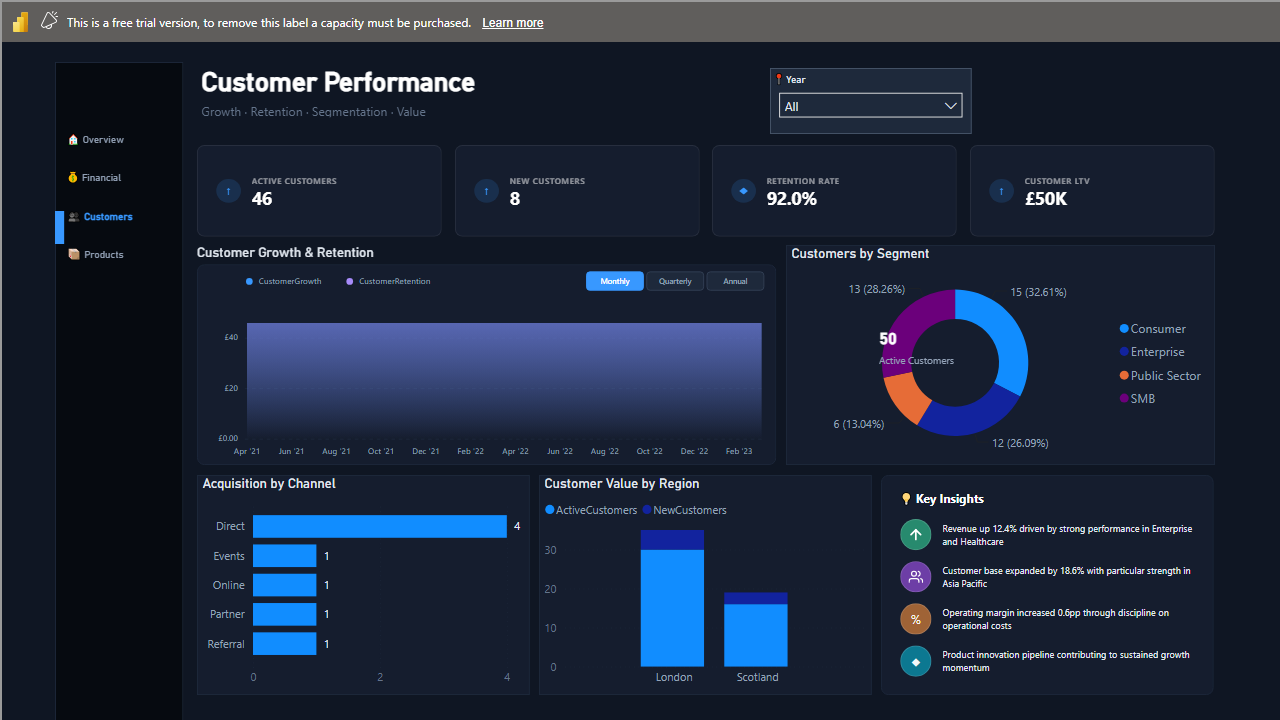
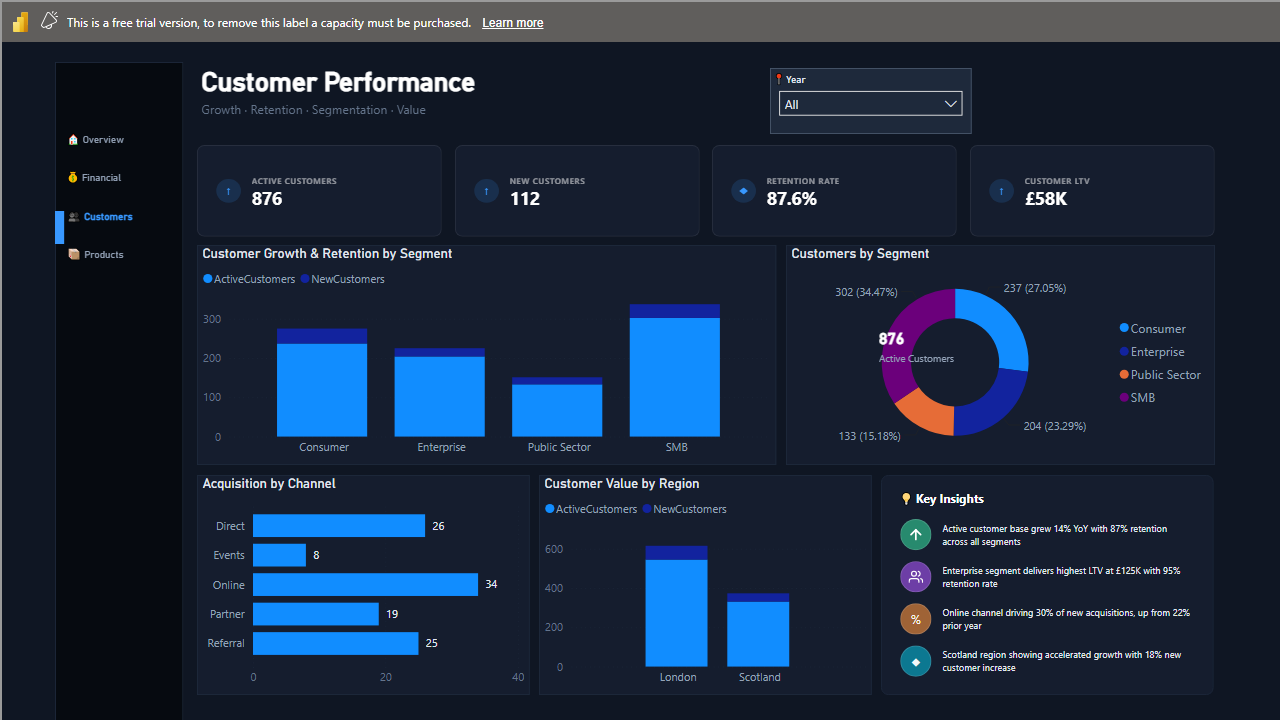
fix(09): 1000 customer records, customer-relevant insights text, column chart hero, fixed donut KPI

diff --git a/custom-visuals/premiumInsights/src/visual.ts b/custom-visuals/premiumInsights/src/visual.ts
@@ -23,22 +23,22 @@ const INSIGHTS: InsightRow[] = [
     {
         color: "rgba(52, 211, 153, 0.6)",
         icon: "ARROW_UP_SVG",
-        text: "Revenue up 12.4% driven by strong performance in Enterprise and Healthcare"
+        text: "Active customer base grew 14% YoY with 87% retention across all segments"
     },
     {
         color: "rgba(168, 85, 247, 0.6)",
         icon: "PEOPLE_SVG",
-        text: "Customer base expanded by 18.6% with particular strength in Asia Pacific"
+        text: "Enterprise segment delivers highest LTV at £125K with 95% retention rate"
     },
     {
         color: "rgba(251, 146, 60, 0.6)",
         icon: "%",
-        text: "Operating margin increased 0.6pp through discipline on operational costs"
+        text: "Online channel driving 30% of new acquisitions, up from 22% prior year"
     },
     {
         color: "rgba(6, 182, 212, 0.6)",
         icon: "\u25C6",
-        text: "Product innovation pipeline contributing to sustained growth momentum"
+        text: "Scotland region showing accelerated growth with 18% new customer increase"
     }
 ];
 

diff --git a/src/pbi_gen/renderer/templates/customer_config.py b/src/pbi_gen/renderer/templates/customer_config.py
@@ -119,18 +119,18 @@ def customer_visual_bindings() -> list[VisualBinding]:
 
     # ─── Middle Row ──────────────────────────────────────────────────────
 
-    # Customer Growth Trend (hero area chart)
+    # Customer by Segment (hero column chart — no date relationship available)
     mid_x1 = _CONTENT_LEFT
     bindings.append(
         VisualBinding(
-            template_id="premium_trend",
-            title="Customer Growth & Retention",
+            template_id="premium_column",
+            title="Customer Growth & Retention by Segment",
             data_bindings={
-                "category": [_DATE_YEAR, _DATE_MONTH],
-                "values": [_CUSTOMER_GROWTH, _CUSTOMER_RETENTION],
+                "category": [_SEGMENT],
+                "values": [_ACTIVE_CUSTOMERS, _NEW_CUSTOMERS],
             },
             position=(mid_x1, _MID_ROW_Y, _MID_COL1_W, _MID_ROW_HEIGHT),
-            config_overrides={},
+            config_overrides={"show_legend": True},
         )
     )
 
@@ -155,8 +155,8 @@ def customer_visual_bindings() -> list[VisualBinding]:
     bindings.append(
         VisualBinding(
             template_id="donut_center_kpi",
-            title="50",
-            data_bindings={"measure": [_TOTAL_CUSTOMERS]},
+            title="876",
+            data_bindings={"measure": [_ACTIVE_CUSTOMERS]},
             position=(donut_kpi_x, donut_kpi_y, 100, 44),
             config_overrides={
                 "subtitle": "Active Customers",

diff --git a/scripts/_add_customer_table.py b/scripts/_add_customer_table.py
@@ -53,8 +53,8 @@ if has_customer:
 sample = customers[:200]
 
 # Build a compact DATATABLE expression (TMDL requires specific formatting)
-# Use only 50 customers to keep it manageable
-sample = customers[:50]
+# Use 1000 customers for realistic density
+sample = customers[:1000]
 
 # Single-line row format for TMDL
 row_strs = []
